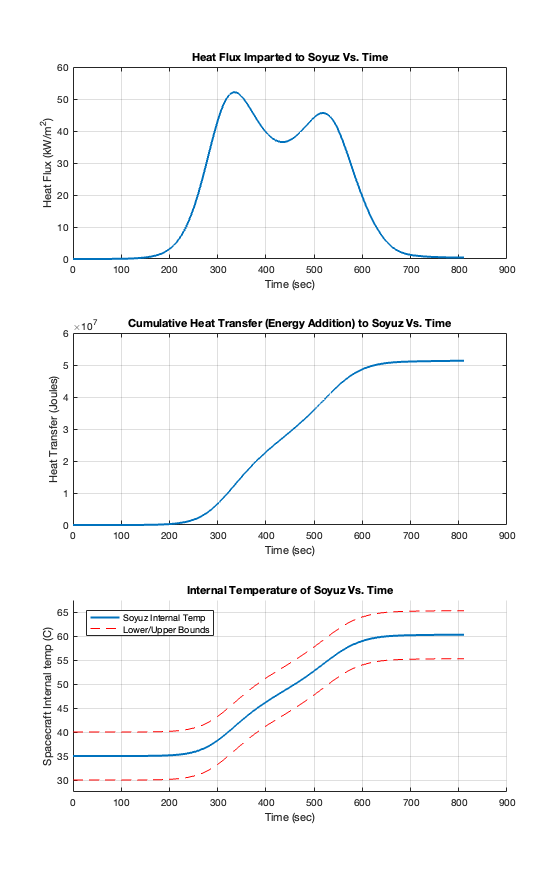
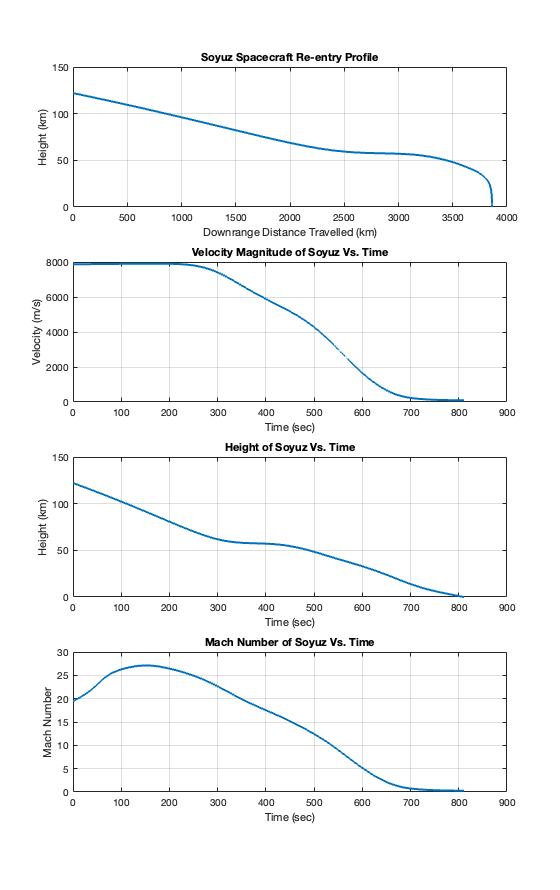
Fix results

diff --git a/Reeentry_Runner.m b/Reeentry_Runner.m
@@ -92,7 +92,6 @@ clear;clc;close all force hidden;
 
 % Plot Reentry Trajectory:
     figure();
-    sgtitle("Re-entry Simulation of Soyuz Spacecraft");
     subplot(4,1,1);
     plot(S(boolArr)./1000, h(boolArr)./1000, 'LineWidth',2);
     grid on;
